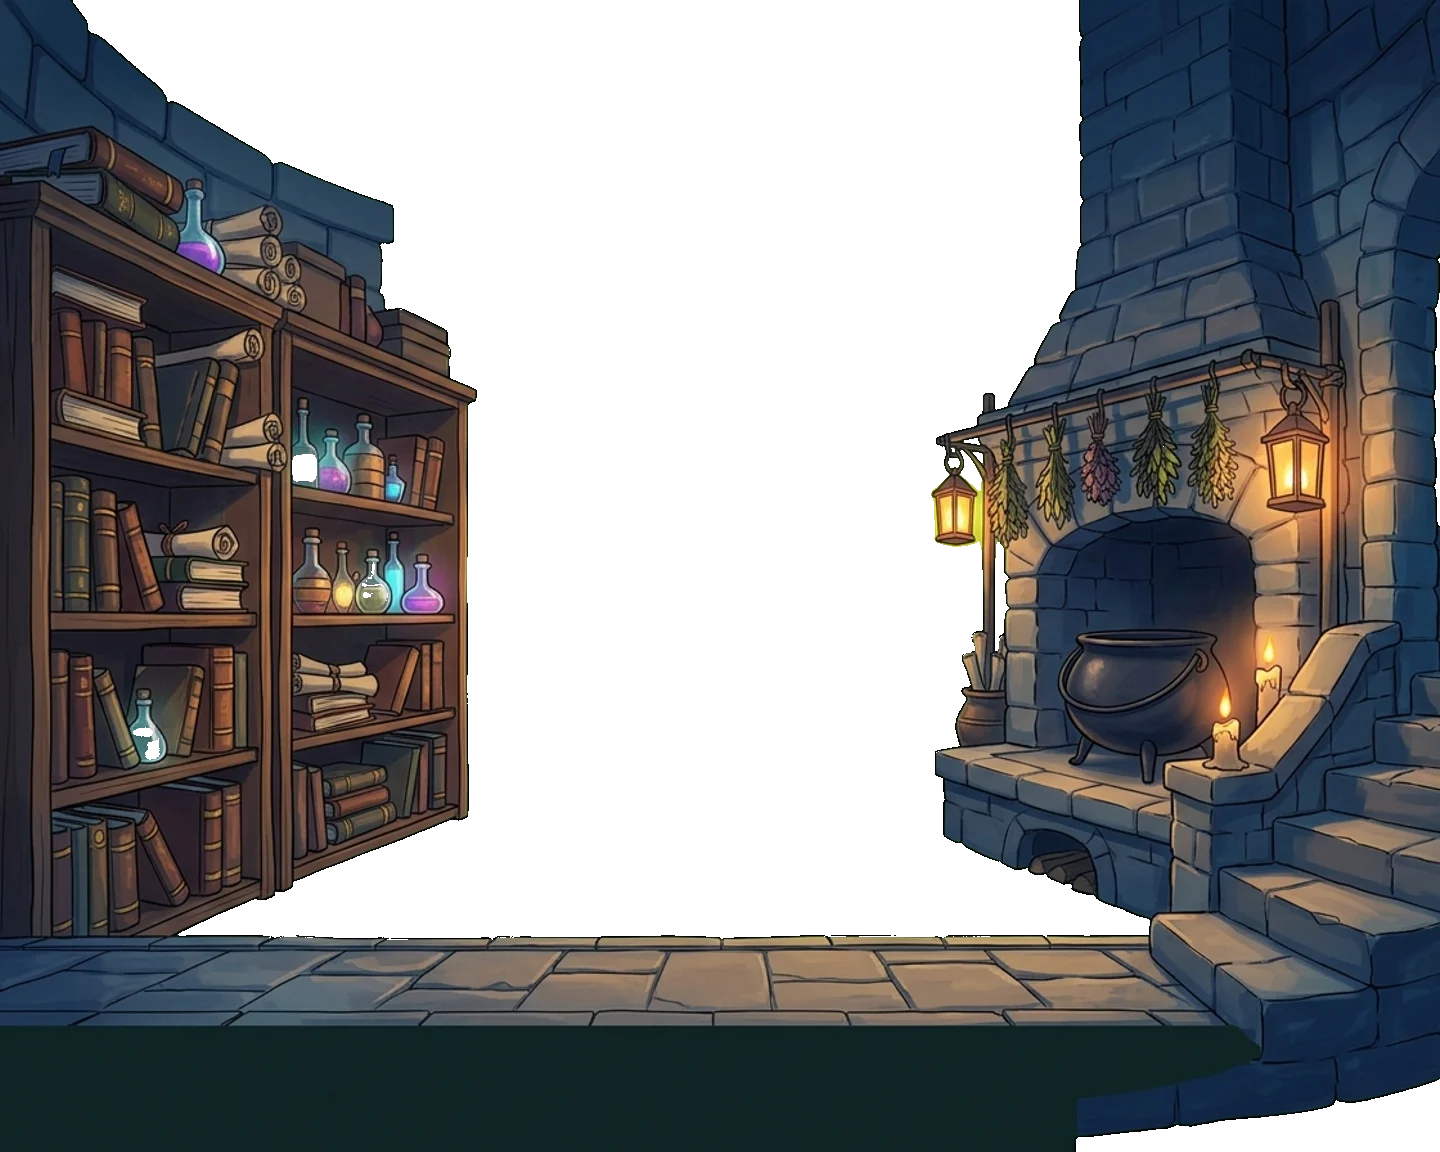
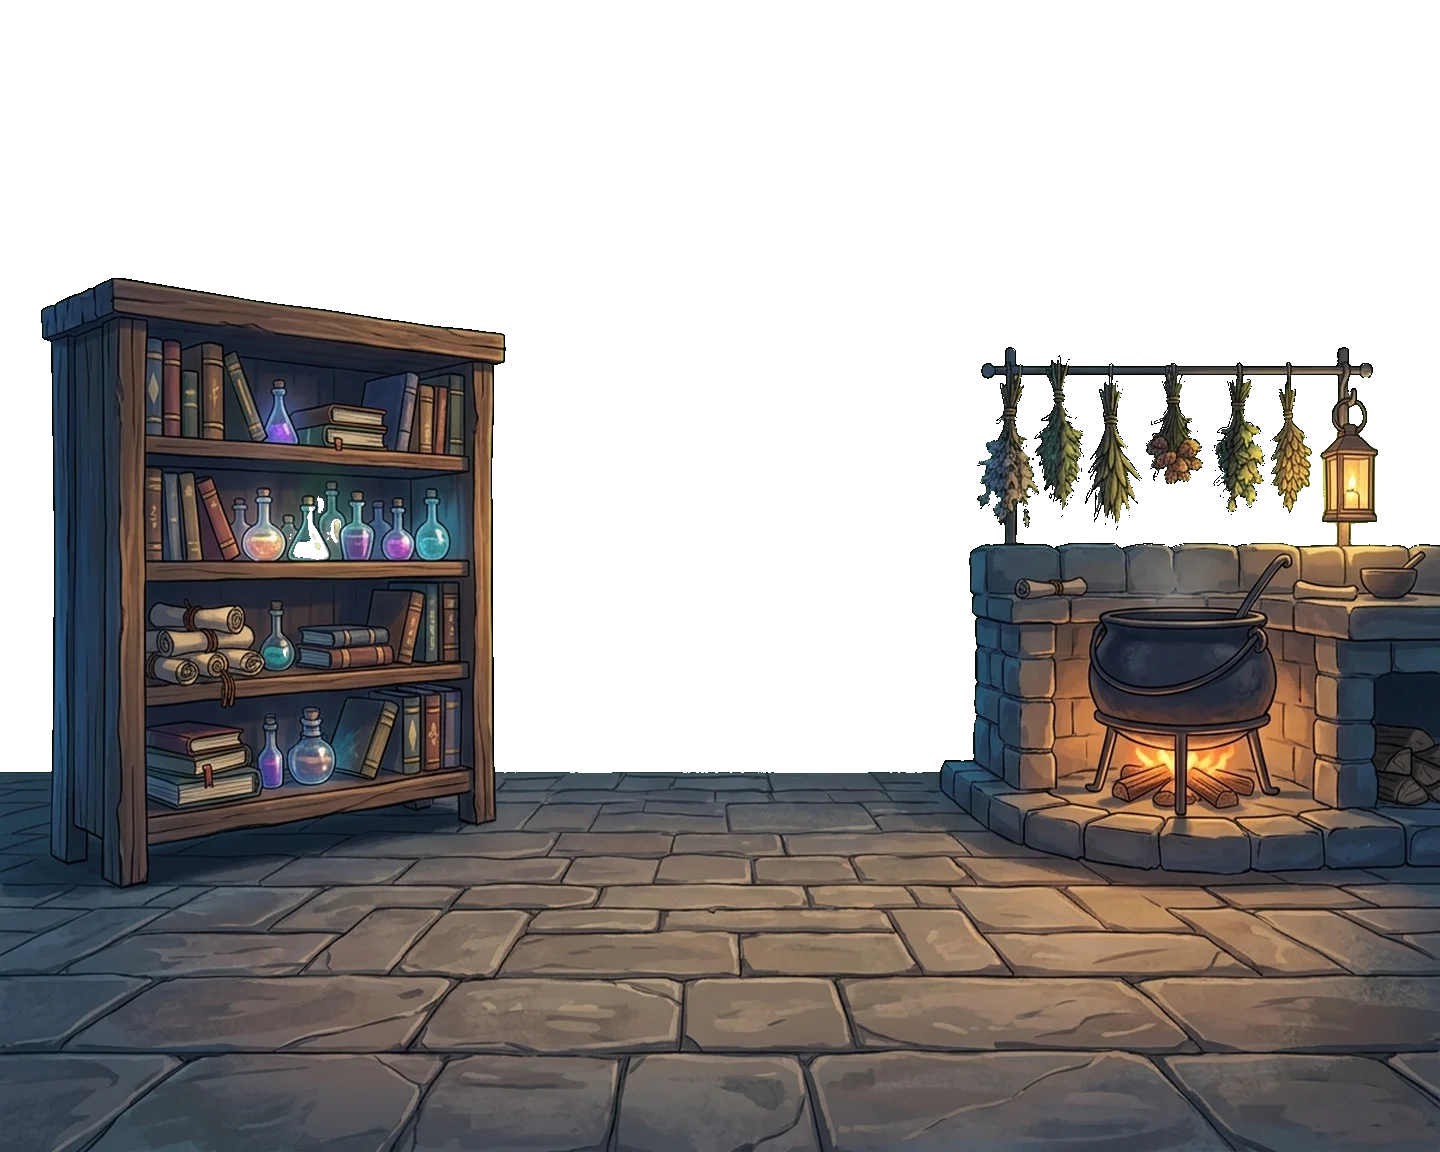
feat(PokeMood): 中景重生图 —— 家具落地、往里收、地板加厚，撤掉悬空补丁
用户目检指出书柜和壁炉悬空，并要求整体更有余裕。两轮重生图解决：

- v2：提示词加「家具底座压在地板上、之间不许留绿」+「底部 30% 是一整片透视
  石板地」。悬空从源头消失（家具底→地板顶空隙 p90 由 35px 降到 6px），
  于是撤掉上一次的装配侧补丁 splitY/bodyDy 与 _addSplitLayer 调用。
  但 v2 要求家具只占两侧外 25%，正面撞上前景两侧画框（内缘在画布 180/698）——
  家具全落在缝外，坩埚整个看不见，且放大缩小都救不回来：
  canvas_x = 450 - 720s + srcX·s，越贴边的东西放大越被推出画面。
- v3（采用）：改要求家具画在画面 8~35% / 65~95%。scale 0.660 下书架内缘 315、
  壁炉内缘 608，正好落在前景两列之间的缝里；地板远沿 772 → 画布 509，
  脚下 210px 深，站位线 715 反推源图 1083 落在地板中前部。

measure-bg.mjs 修两处盲区（各让一版缺陷溜过去）：
- 空隙基准改用【中央 60%】的地板顶。家具一旦真坐在地板上，家具和地板在那些列
  连成同一段不透明区，「最低一段的顶边」会顺着家具爬到书架顶（v3 全幅中位 545
  vs 中央 772），基准错则空隙全是垃圾数，反报 47% 列悬空的假警报。
- 空隙不再自动分类（分布双峰：贴地家具一峰、吊挂物一峰），只报分位数。

两道门重跑：game-verify 通过，poke-bot 12/12 全绿。

diff --git a/game_runs/PokeMood/game/config.js b/game_runs/PokeMood/game/config.js
@@ -35,10 +35,19 @@ PM.Config = {
   // 实测（2026-07-28，tools/measure-bg.mjs）与取值理由：
   //   far   墙脚/近处地板交界 y≈989 → 715/989 = 0.723
   //         （最强水平边量到的 653 是平台后沿，照它定标角色会站到半空）
-  //   mid   石板地带：后沿 y≈937、前沿 y≈1042（源图上只有 105px 厚）。
-  //         首版取 0.726 让站位线落在带中，结果地带只剩 680~720 的 40px 露在画布里，
-  //         再被地面雾带一压就成了一片黑，她看着像浮在墙前面。改 0.700：
-  //         地带铺到 656~729，站位线 715 落在偏前处，身后留得出 59px 地板。
+  //   mid   已重生图两轮，地板远沿 y≈772（中央 60% 实测）→ 0.660 落在画布 509，
+  //         脚下留出 210px 深的地板；站位线 715 反推回源图 1083，落在地板中前部、
+  //         在书架脚之前，透视上她比家具更靠近镜头，正确。
+  //         ⚠ 这层【别按站位线定标】：地板深了以后能站的是一整段不是一条线，
+  //           定标要盯【远沿】，站位线用 FOOT_Y 反推回去验证合不合理即可。
+  //         ⚠ 这层的 scale 还被【前景两侧画框】卡着，不能只看构图挑：
+  //           前景左右列的内缘在画布 180 / 698，中景家具必须落在这条缝里才看得见。
+  //           家具在源图的 x 位置决定了 canvas_x = 450 - 720s + srcX·s ——
+  //           家具越靠源图边缘，放大越把它推出画面。v2 那版家具贴在最外 25%，
+  //           无论放大缩小都躲不开前景，坩埚整个不见；v3 要求家具画在 8~35% /
+  //           65~95%，0.660 下书架内缘 315、壁炉内缘 608，正好都在缝里。
+  //         生图提示词的两条硬要求（都是踩过的坑）：家具底座必须压在地板上、
+  //         之间不许留绿；家具不许贴边，要画在画面内侧。
   //   fore  底部石板条顶边 y≈1046 → 目标 690（靴底上方 25px）= 0.660
   //         首版 0.669 只露 20px，那条石板暗且窄，肉眼根本没注意到有前景压边
   //         只吃 15px，够压住底边、不吃掉靴子 —— 腿是可触区，遮了就是
@@ -57,16 +66,7 @@ PM.Config = {
     FOOT_Y: 715,                 // 靴底在画布上的 y，三层定标共用的靶子
     LAYERS: [
       { key: 'bg_far',  scale: 0.723, depth: -100, par: 5 },
-      // ⚠ 中景要【拆两半】：AI 把书架和壁炉画得离它自己那条石板地 35 源图 px，
-      //    中间是绿的 —— 抠成透明后远景的暗墙从缝里透出来，两件家具看着悬空
-      //    （实测 tools/measure-bg.mjs：书架底 900 / 壁炉基座底 900 / 地板顶 935）。
-      //    生图模型对「家具必须坐在地板上」和对地面线一样不可靠，同样在装配侧吸收：
-      //    按 splitY 把同一张贴图裁成「家具」和「地板」两个 Image（Phaser setCrop
-      //    是原位渲染，两张叠回去和原图逐像素一致），家具整体下沉 bodyDy 源图 px
-      //    坐到地板上，多沉 7px 是为了压掉接缝处的发丝线。
-      //    地板画在家具后一档 depth，接缝由家具压住。
-      //    真正该悬空的部件（上层隔板、吊挂的干草药）本来就离地 80px+，不受影响。
-      { key: 'bg_mid',  scale: 0.700, depth: -60,  par: 13, splitY: 930, bodyDy: 42 },
+      { key: 'bg_mid',  scale: 0.660, depth: -60,  par: 13 },
       { key: 'bg_fore', scale: 0.660, scaleX: 0.84, depth: 18, par: 30 },
     ],
   },
